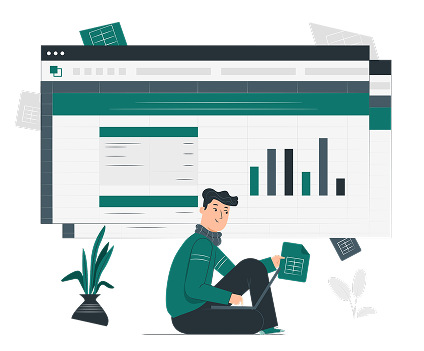
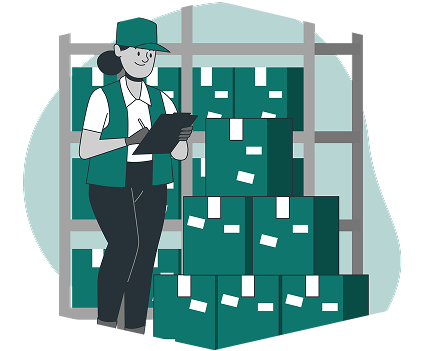
Update project

diff --git a/index.html b/index.html
@@ -107,15 +107,37 @@
           </div>
 
           <div class="record-sale">
-            <div class="record-wrapper">
+            <div class="records">
+              <div class="record-wrapper">
                <div class="record-icon">
-              <img src="./img/vaadin_records.png" alt="">
+                <img src="./img/vaadin_records.png" alt="">
+               </div>
+               <p>Record a sale in seconds</p>
+              </div>
+             <p class="sales-p">Capture every transaction with just a few taps. Your <br> sales are saved instantly, and your  inventory updates <br> automatically, so your records are always accurate.</p>
             </div>
-            <p>Record a sale in seconds</p>
-            </div>
-           
-            
 
+            <div>
+              <img src="./img/Rectangle 702 (1).png" alt="">
+            </div>
+            
+          </div>
+
+          <div class="record-sale" >
+
+             <div>
+             <img src="./img/Rectangle 702.png" alt="">
+             </div>
+
+            <div class="records"">
+              <div class="record-wrapper">
+               <div class="record-icon">
+                <img src="./img/vaadin_records.png" alt="">
+               </div>
+               <p>Record a sale in seconds</p>
+              </div>
+             <p class="sales-p">Capture every transaction with just a few taps. Your <br> sales are saved instantly, and your  inventory updates <br> automatically, so your records are always accurate.</p>
+            </div>
 
           </div>
       

diff --git a/style.css b/style.css
@@ -19,7 +19,7 @@
 
 body{
   width: 100%;
-  height: 4216px;
+  min-height: 4216px;
   background: var(--bodybgcolor);
 }
 
@@ -84,9 +84,7 @@ header button{
 
 .hero-1{
 width: 100%;
-
 }
-
 
 .market-traders{
   padding-top: 17.625rem;
@@ -176,6 +174,8 @@ width: 100%;
 
 
 .Frame{
+  width: 1,343px;
+  height: 430.4px;
   display: flex;
   justify-content: space-around;
 }
@@ -285,6 +285,9 @@ width: 100%;
   font-size: 40px;
 }
 
+ .records{
+  padding-top: 80px;
+ }
 .record-icon{
   width: 50px;;
   height:50px;
@@ -297,9 +300,13 @@ width: 100%;
 
   position:relative;
   z-index:2;
-  box-shadow: 0px 3.43px 3.43px 0px #00000040;
 }
 
+.record-sale{
+  margin-top: 106px;
+  display: flex;
+  justify-content: space-between;
+}
 .record-wrapper{
  display: flex;
  align-items: center;
@@ -310,4 +317,12 @@ width: 100%;
   font-weight: 600;
   font-family: var(--fontgeist);
   font-size: 28px;
+}
+
+.sales-p{
+  font-family: var(--fontgeist);
+  font-weight: 400;
+  font-size: 24px;
+  color: var(--headercolor);
+  padding-top: 15px;
 }